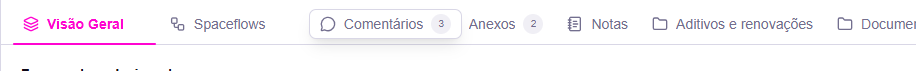
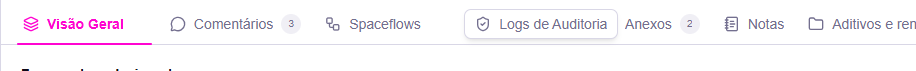
[PROTO] pastas-do-item — rodada 2 — hover com traço rosa fraco, folder abre no clique e arrasto por cima
Sublinhado: hover sem fundo (texto mais forte e traço na cor de destaque a
35 % sobre a linha de base); o traço da ativa passa a ser da própria aba e
vai junto no arrasto. Nos 3 estilos: a folder abre só no clique, Enter ou
Espaço (botão direito e arrasto não trocam de folder) e a arrastada vira
uma ficha leve por cima das vizinhas.

Changed region(s): [[0.1834, 0.2254, 1.0, 0.4507], [0.3362, 0.5352, 0.6725, 0.5634], [0.3362, 0.1127, 0.6725, 0.1408]]

diff --git a/app/pages/pastas-do-item/_BarraDePastas.vue b/app/pages/pastas-do-item/_BarraDePastas.vue
@@ -214,6 +214,23 @@ function aoTeclar(e: KeyboardEvent) {
   mover(ativa.value, pastas.value[j]!.id)
 }
 
+/**
+ * A folder abre no CLIQUE (soltar sem arrastar), não no mousedown.
+ * O `TabsTrigger` ativa no mousedown; aqui o mousedown para na barra, para que
+ * arrastar uma folder fechada não a abra e o botão direito nunca troque de
+ * folder. Enter e Espaço continuam abrindo (ativação manual do UTabs).
+ */
+function segurarAtivacao(e: MouseEvent) {
+  if ((e.target as HTMLElement).closest('[data-slot=trigger]')) e.stopPropagation()
+}
+
+function aoClicar(e: MouseEvent) {
+  if (e.button !== 0) return
+  const el = (e.target as HTMLElement).closest<HTMLElement>('[data-slot=trigger]')
+  const p = el ? visiveis.value[gatilhos().indexOf(el)] : undefined
+  if (p) ativa.value = p.id
+}
+
 /** Clique duplo na folder abre Editar (Notion, Airtable, abas de planilha). Só nos estilos propostos. */
 function aoClicarDuasVezes(e: MouseEvent) {
   if (props.estilo === 'hoje') return
@@ -309,16 +326,22 @@ const aparencia = computed(() => {
         ui: {
           root: 'gap-0',
           list: 'gap-1 px-3 pb-0 pt-1 border-default overflow-x-clip',
-          indicator: 'h-0.5 -bottom-px rounded-full',
+          // O traço não é o indicador do UTabs: é da própria aba (after), para ir junto quando ela é arrastada.
+          indicator: 'hidden',
           trigger: [
-            'px-2.5 py-2.5 my-0 gap-2 text-sm cursor-pointer select-none',
-            'transition-[color,background-color,transform]',
+            'px-2.5 py-2.5 my-0 gap-2 text-sm cursor-pointer select-none isolate',
+            'transition-[color,padding,transform] duration-200 ease-out',
             'data-[state=inactive]:text-muted hover:data-[state=inactive]:text-highlighted',
-            // o fundo do hover fica DENTRO da área do texto, sem tocar a linha de base
-            'before:absolute before:inset-x-0 before:inset-y-1.5 before:-z-10 before:rounded-md before:transition-colors',
-            'hover:data-[state=inactive]:before:bg-elevated isolate',
+            // Hover sem fundo: o texto fica mais forte e um traço rosa fraco cresce sobre a linha de base,
+            // no lugar do traço da ativa (prévia da seleção, na cor de destaque).
+            'after:absolute after:inset-x-1 after:-bottom-px after:h-0.5 after:rounded-full after:scale-x-0 after:transition-all after:duration-200 after:ease-out',
+            'data-[state=inactive]:after:bg-primary/35 hover:data-[state=inactive]:after:scale-x-100',
+            'data-[state=active]:after:bg-primary data-[state=active]:after:scale-x-100',
             'data-[state=active]:font-semibold data-[state=active]:pr-8',
-            'data-[arrastando=true]:z-10 data-[arrastando=true]:cursor-grabbing data-[arrastando=true]:before:bg-default data-[arrastando=true]:before:shadow-lg data-[arrastando=true]:before:ring data-[arrastando=true]:before:ring-default',
+            // Arrastando: a aba vira uma ficha leve, por cima das vizinhas (como no "Hoje"), e o traço vai junto.
+            'before:absolute before:inset-x-0 before:inset-y-1.5 before:-z-10 before:rounded-md before:transition-[background-color,box-shadow]',
+            'data-[arrastando=true]:z-10 data-[arrastando=true]:cursor-grabbing data-[arrastando=true]:text-highlighted',
+            'data-[arrastando=true]:before:bg-default data-[arrastando=true]:before:shadow-md data-[arrastando=true]:before:ring data-[arrastando=true]:before:ring-default',
           ].join(' '),
           leadingIcon: 'size-4',
           trailingBadge: 'rounded-full px-1.5 min-w-5 justify-center bg-elevated ring-0 text-muted group-data-[state=active]:bg-primary/10 group-data-[state=active]:text-primary',
@@ -334,10 +357,10 @@ const aparencia = computed(() => {
           trigger: [
             'relative -mb-px px-3 py-2 gap-2 text-sm cursor-pointer select-none',
             'rounded-t-lg rounded-b-none border border-transparent',
-            'transition-[color,background-color,transform]',
+            'transition-[color,background-color,padding,transform] duration-200 ease-out',
             'data-[state=inactive]:text-muted hover:data-[state=inactive]:text-highlighted hover:data-[state=inactive]:bg-accented/60',
             'data-[state=active]:bg-default data-[state=active]:text-highlighted data-[state=active]:font-semibold data-[state=active]:pr-8',
-            'data-[arrastando=true]:z-10 data-[arrastando=true]:cursor-grabbing data-[arrastando=true]:shadow-lg data-[arrastando=true]:bg-default data-[arrastando=true]:border-default',
+            'data-[arrastando=true]:z-10 data-[arrastando=true]:cursor-grabbing data-[arrastando=true]:shadow-md data-[arrastando=true]:bg-default data-[arrastando=true]:border-default',
             // a borda de baixo transparente deixa o fundo da aba cobrir a linha de base: é aí que ela "funde"
             'data-[state=active]:border-default data-[state=active]:border-b-transparent data-[state=active]:z-[1]',
             // o traço fino de cor no topo da ativa, como a aba do navegador com foco
@@ -361,6 +384,8 @@ const aparencia = computed(() => {
           trigger: [
             'grow-0 h-7 rounded-md px-2 py-0 gap-1.5 text-xs shadow-xs ring ring-inset cursor-grab select-none',
             'transition-[color,background-color,box-shadow,transform]',
+            // o arrasto é do protótipo (a preview usa o arrasto nativo do HTML); aqui a ficha passa por cima
+            'data-[arrastando=true]:z-10 data-[arrastando=true]:shadow-md data-[arrastando=true]:cursor-grabbing',
             'data-[state=inactive]:bg-default data-[state=inactive]:text-muted data-[state=inactive]:ring-0 hover:data-[state=inactive]:bg-accented',
             'data-[state=active]:bg-primary/10 data-[state=active]:font-semibold data-[state=active]:text-primary data-[state=active]:ring-primary/25',
           ].join(' '),
@@ -395,6 +420,8 @@ const aparencia = computed(() => {
       ref="barra"
       class="relative min-w-0"
       @pointerdown="aoPressionar"
+      @mousedown.capture="segurarAtivacao"
+      @click="aoClicar"
       @keydown="aoTeclar"
       @dblclick="aoClicarDuasVezes"
     >

diff --git a/app/pages/pastas-do-item/index.vue b/app/pages/pastas-do-item/index.vue
@@ -211,7 +211,7 @@ const estilos = computed(() => [
                 v-model:ativa="ativa"
                 :t="t"
                 :estilo="estilo"
-                @editar="editar"
+                    @editar="editar"
                 @ocultar="ocultar"
                 @excluir="pedirExclusao"
                 @nova="nova"

diff --git a/app/pages/pastas-do-item/DECISOES.md b/app/pages/pastas-do-item/DECISOES.md
@@ -38,6 +38,20 @@ A folder vira aba: texto sobre uma linha de base que é a borda de cima do conte
 | 14 | Ativa que não cabe: não conferido | A ativa sempre aparece; entra no lugar da última que cabia | A régua invisível mede cada folder e reserva espaço para a ativa e para a seta dela |
 | 15 | Reordenar pelo teclado: não conferido | Ctrl + Shift + seta move a folder ativa, com aviso para leitor de tela | Mesma lógica do arrasto, pelo teclado |
 
+## Rodada 2 · 2026-10-08
+
+- **Pedido (literal):** "na proposta do sublinhado, o hover ainda ta fazendo parecer um bloco [...] pra mim parece que deveria talvez só acender o texto, sem fazer background, ou isso estar mais integrado com a linha de base"; "ao clicar com botao direito numa folder que nao está aberta, o usuário nao deve ser redirecionado pra ela"; "o modo como voce desenhou o arraste na versao \"hoje\" ta melhor [...] tirando o fato de que ta passando por tras [...] o da versao sublinhada ta estranho pq a linha da base nao vem junto, e parece um destaque muito forte"
+- **Pedido (literal), na mesma rodada:** "pode botar o hover com texto e traço, nem bote a opçao só texto [...] o hover deve aplicar levemente a cor de destaque [...] o hover deve colocar o texto mais forte e a barra num rosa mais fraco"
+- **Mudou:** hover do Sublinhado sem fundo: o texto fica mais forte (`text-highlighted`) e um traço de 2 px na cor de destaque a 35 % (`bg-primary/35`) cresce do centro sobre a linha de base, no lugar onde fica o traço da ativa
+- **Descartado:** hover só no texto. Motivo: escolha dela; o traço mostra que a folder é clicável
+- **Mudou:** a folder abre no clique (soltar sem arrastar), com Enter ou com Espaço. Botão direito e arrasto não trocam a folder. Motivo: o `TabsTrigger` ativa no mousedown; a barra segura o mousedown e ativa no clique
+- **Mudou:** o traço da ativa é da própria aba, não mais o indicador do `UTabs`; ao arrastar a ativa, o traço vai junto. Ao trocar de folder, o traço cresce do centro em vez de deslizar
+- **Mudou:** arrastando, a folder vira uma ficha leve (fundo da página, contorno fino, sombra média) por cima das vizinhas, nos 3 estilos; a fechada continua com o texto neutro, sem a cor da ativa
+- **Mudou:** a troca de folder anima o espaço da seta ⌄ (padding), para as vizinhas deslizarem em vez de pular
+- **Fronteira:** muda hover, ativação e arrasto da barra; não muda o resto
+- **Descartado:** traço deslizante entre folders (indicador do `UTabs`). Motivo: ele não acompanha a aba arrastada
+- **Ver:** `http://localhost:3000/pastas-do-item?estilo=sublinhado`
+
 ### Como a barra foi montada
 
 - Os 3 estilos são o mesmo `UTabs` do Nuxt UI (`variant="link"` nas propostas, `pill` na cópia de hoje), mudando só a prop `ui` com token semântico. Consultas ao MCP `nuxt-ui`: `search-components` ("tabs", "right click menu", "sortable drag reorder"), `get-component-metadata` (Tabs: `variant`, `activationMode`, `content`, slot `list-trailing`), `get-example` (PopoverCommandPalette, TabsRouteQuery, AccordionDragAndDrop), `search-composables` (useToast).
